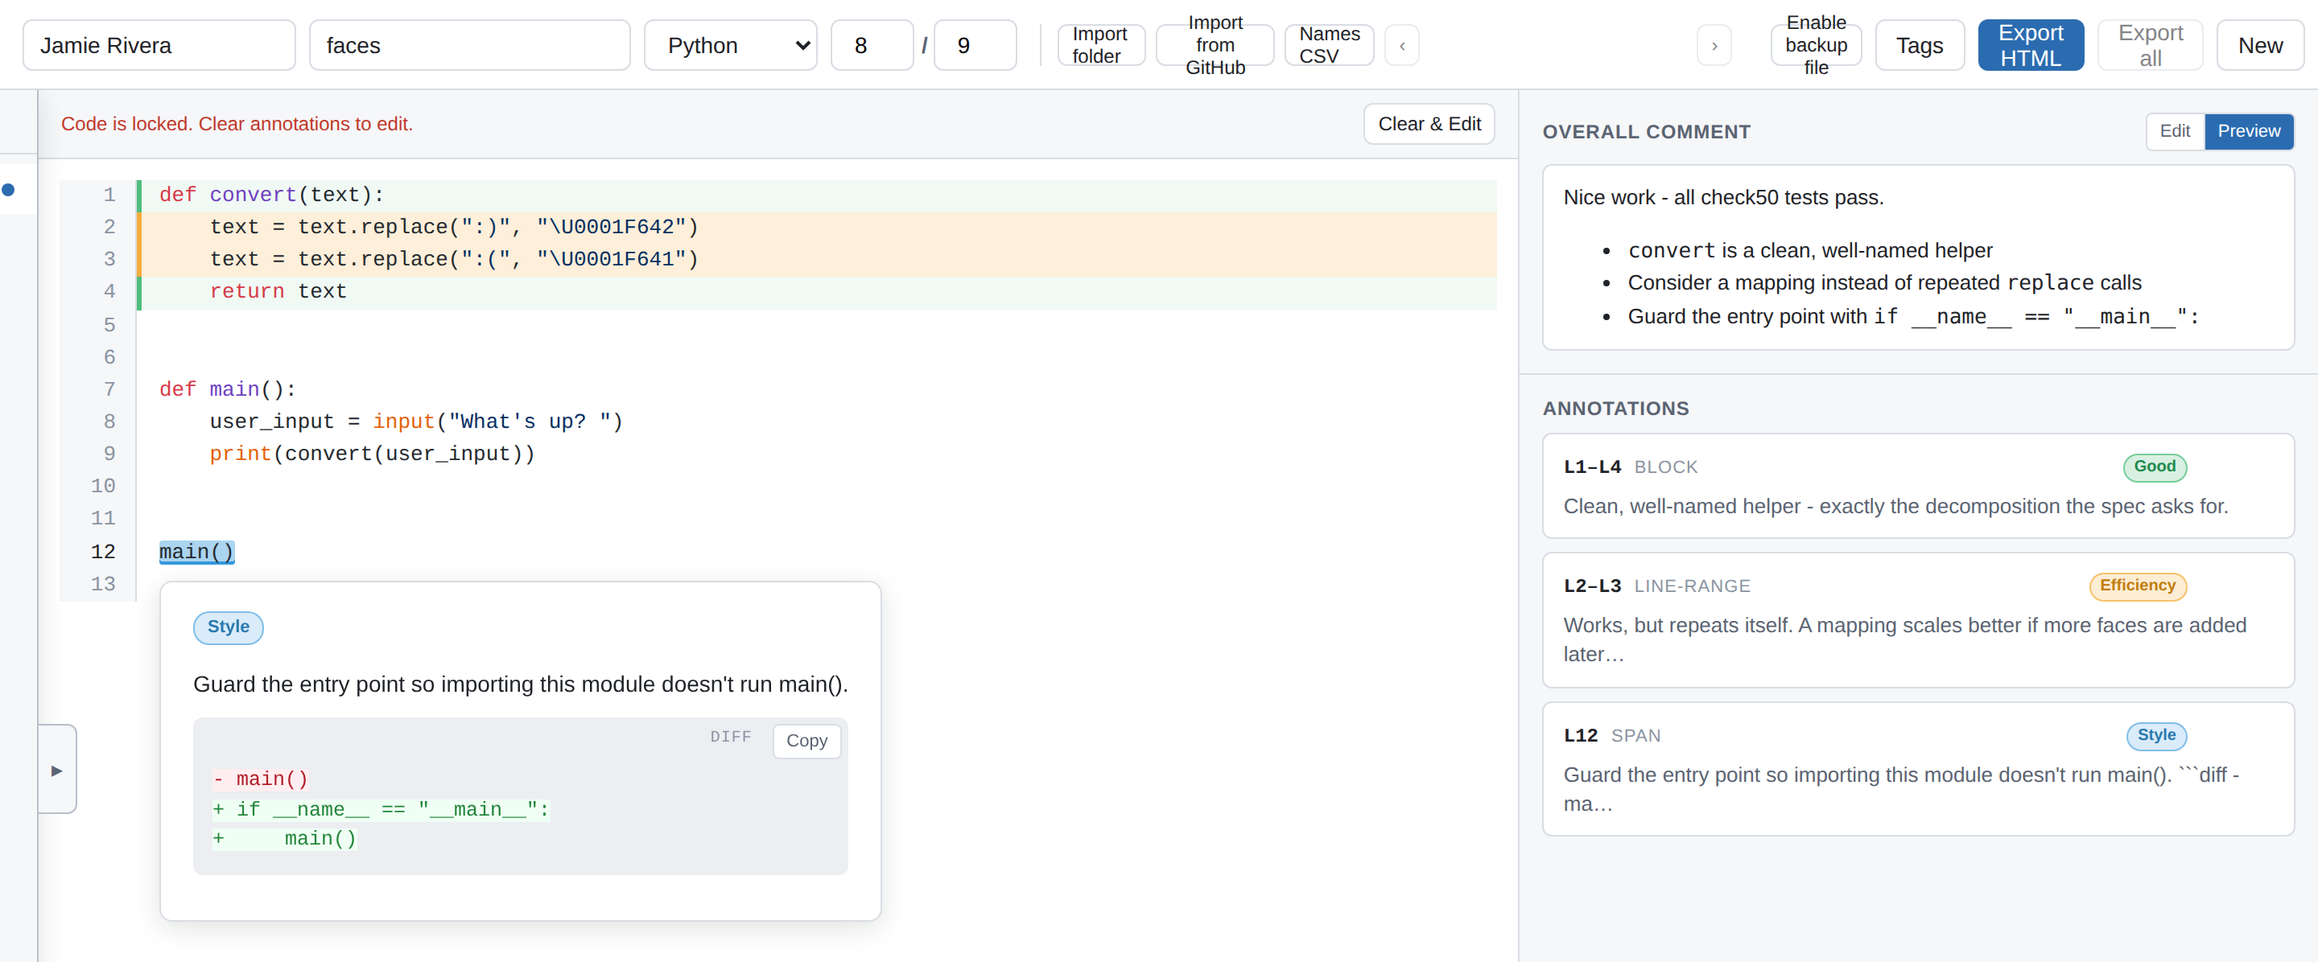
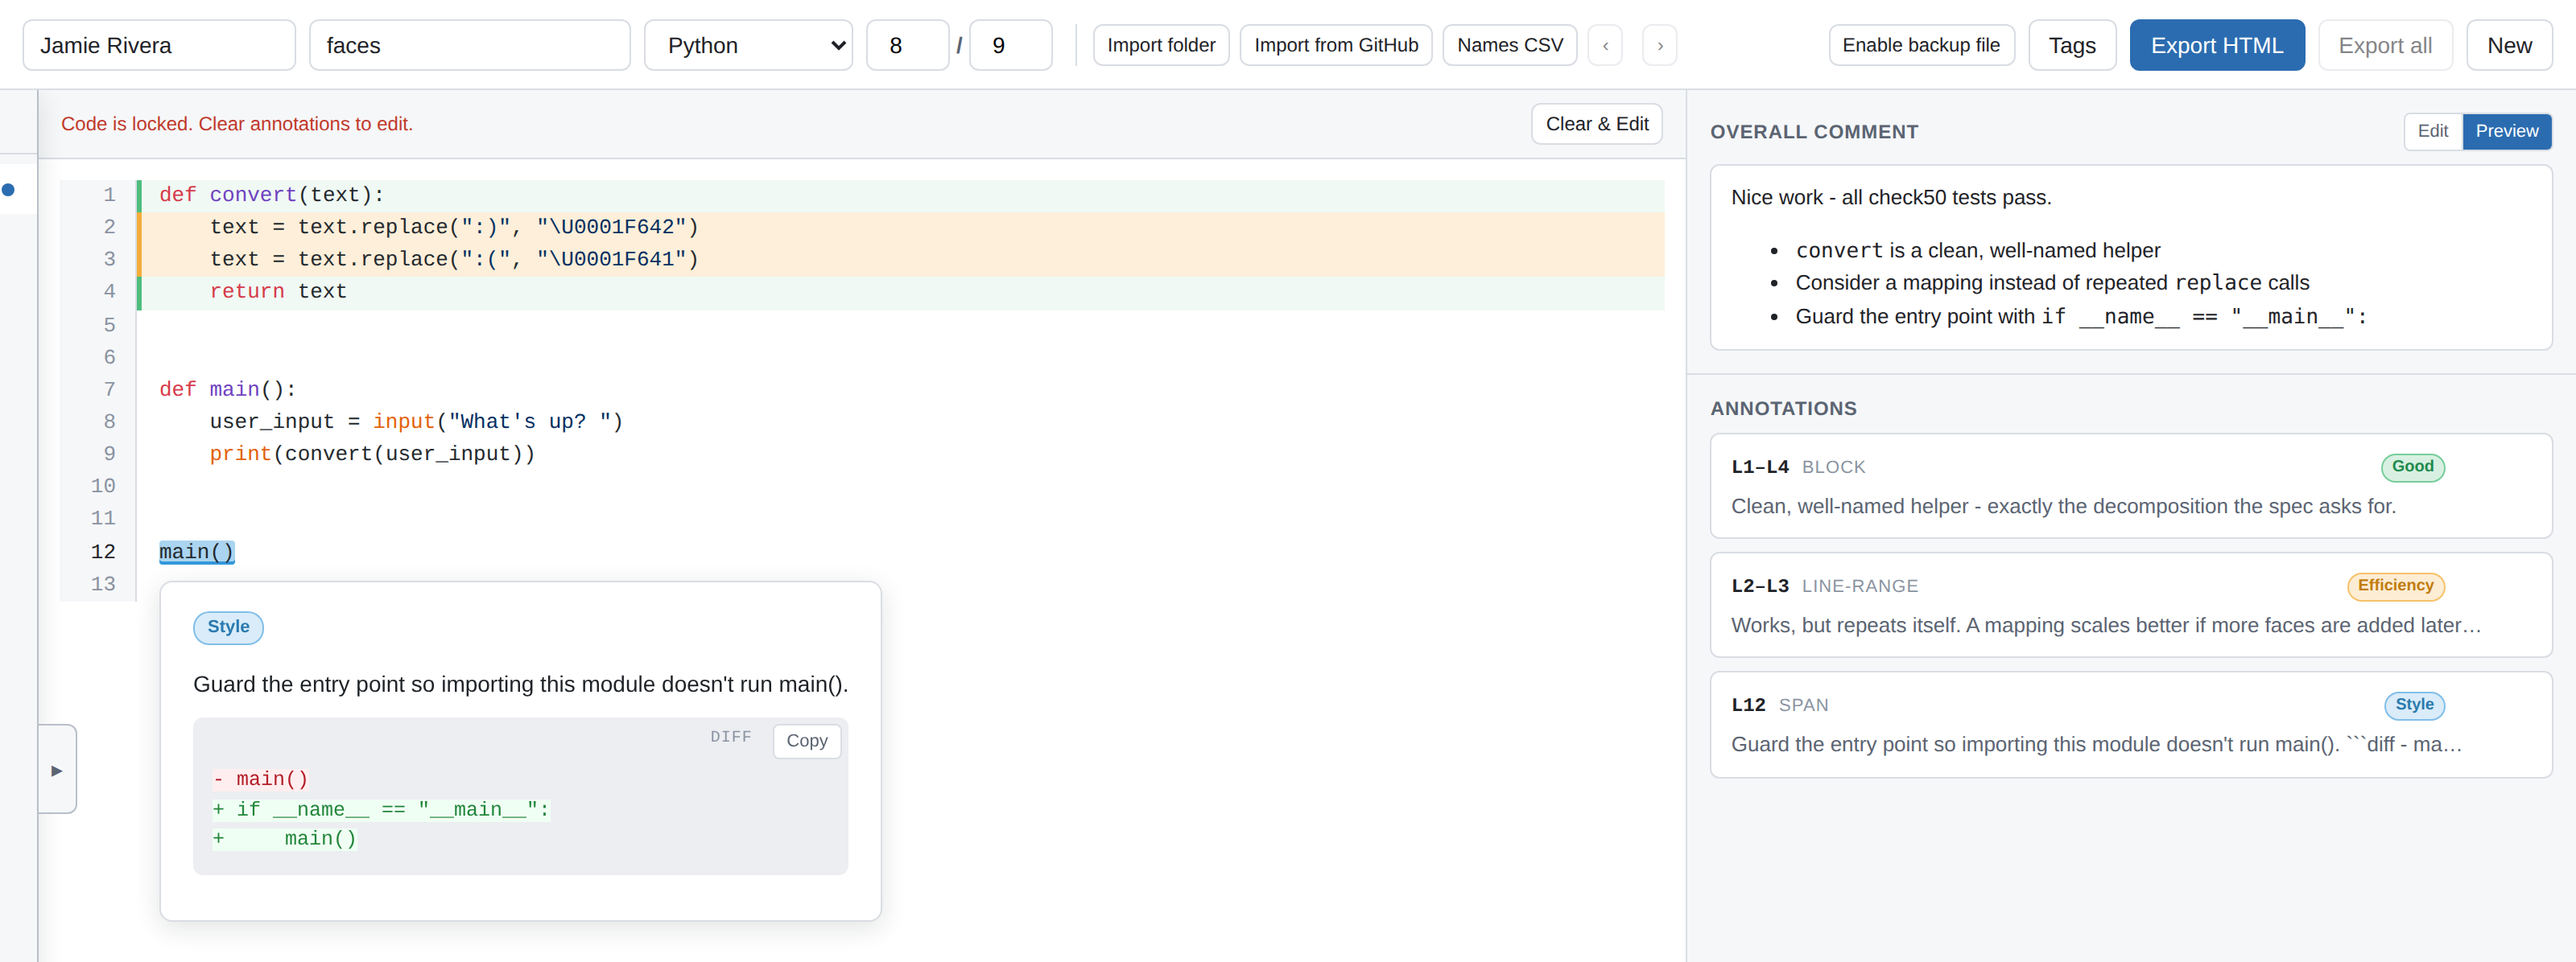
fix(ui): keep topbar controls on one line
Salvages da7e82e from claude/codebase-analysis-1qdqpm and completes it:

- .btn gets white-space: nowrap so multi-word captions ("Import folder",
  "Enable backup file") stop wrapping into two- and three-line boxes when
  the row tightens (the original unmerged fix).
- nowrap alone just pushed the right-side buttons off-screen, so the row
  now absorbs width instead: the empty queue counter no longer reserves
  its 160px "Student i/N" slot, the name inputs shrink to a 90px floor
  before anything else gives, and the topbar scrolls sideways as a last
  resort (its height is fixed — the queue drawer hangs off --topbar-h).
- README author screenshot retaken with the clean topbar.

Claude-Session: https://claude.ai/code/session_012UJKVCUtc4XZhB2pFdTUJw

diff --git a/styles.css b/styles.css
@@ -58,6 +58,16 @@ body {
   position: sticky;
   top: 0;
   z-index: 10;
+  /* Buttons never wrap (see .btn) and the height is fixed (the queue drawer
+     hangs off --topbar-h), so when width truly runs out the bar scrolls
+     sideways instead of pushing controls off-screen. */
+  overflow-x: auto;
+}
+
+/* The name inputs are the flexible part of the row: let them shrink (down
+   to a usable floor) before anything else has to give. */
+.topbar input[type="text"].meta-input {
+  min-width: 90px;
 }
 
 .topbar-group {
@@ -121,6 +131,10 @@ body {
   display: inline-flex;
   align-items: center;
   justify-content: center;
+  /* Topbar is a nowrap flex row: when width runs out, items shrink to
+     min-content and multi-word captions ("Import folder") wrap into tall
+     two-line boxes. Forbid wrapping so a .btn is always one line tall. */
+  white-space: nowrap;
   height: 32px;
   padding: 0 12px;
   border: 1px solid var(--border);
@@ -1329,6 +1343,9 @@ body.queue-open .workspace {
 
 .queue-counter {
   display: inline-block;
+  /* Reserve width only while showing "Student i/N: name" so the arrows don't
+     jitter as the label changes; a lone submission renders no counter and
+     shouldn't cost the topbar 160px. */
   min-width: 160px;
   padding: 0 4px;
   font-family: var(--mono);
@@ -1337,6 +1354,10 @@ body.queue-open .workspace {
   white-space: nowrap;
   overflow: hidden;
   text-overflow: ellipsis;
+}
+.queue-counter:empty {
+  min-width: 0;
+  padding: 0;
 }
 
 /* --- Queue drawer ----------------------------------------------------- */
